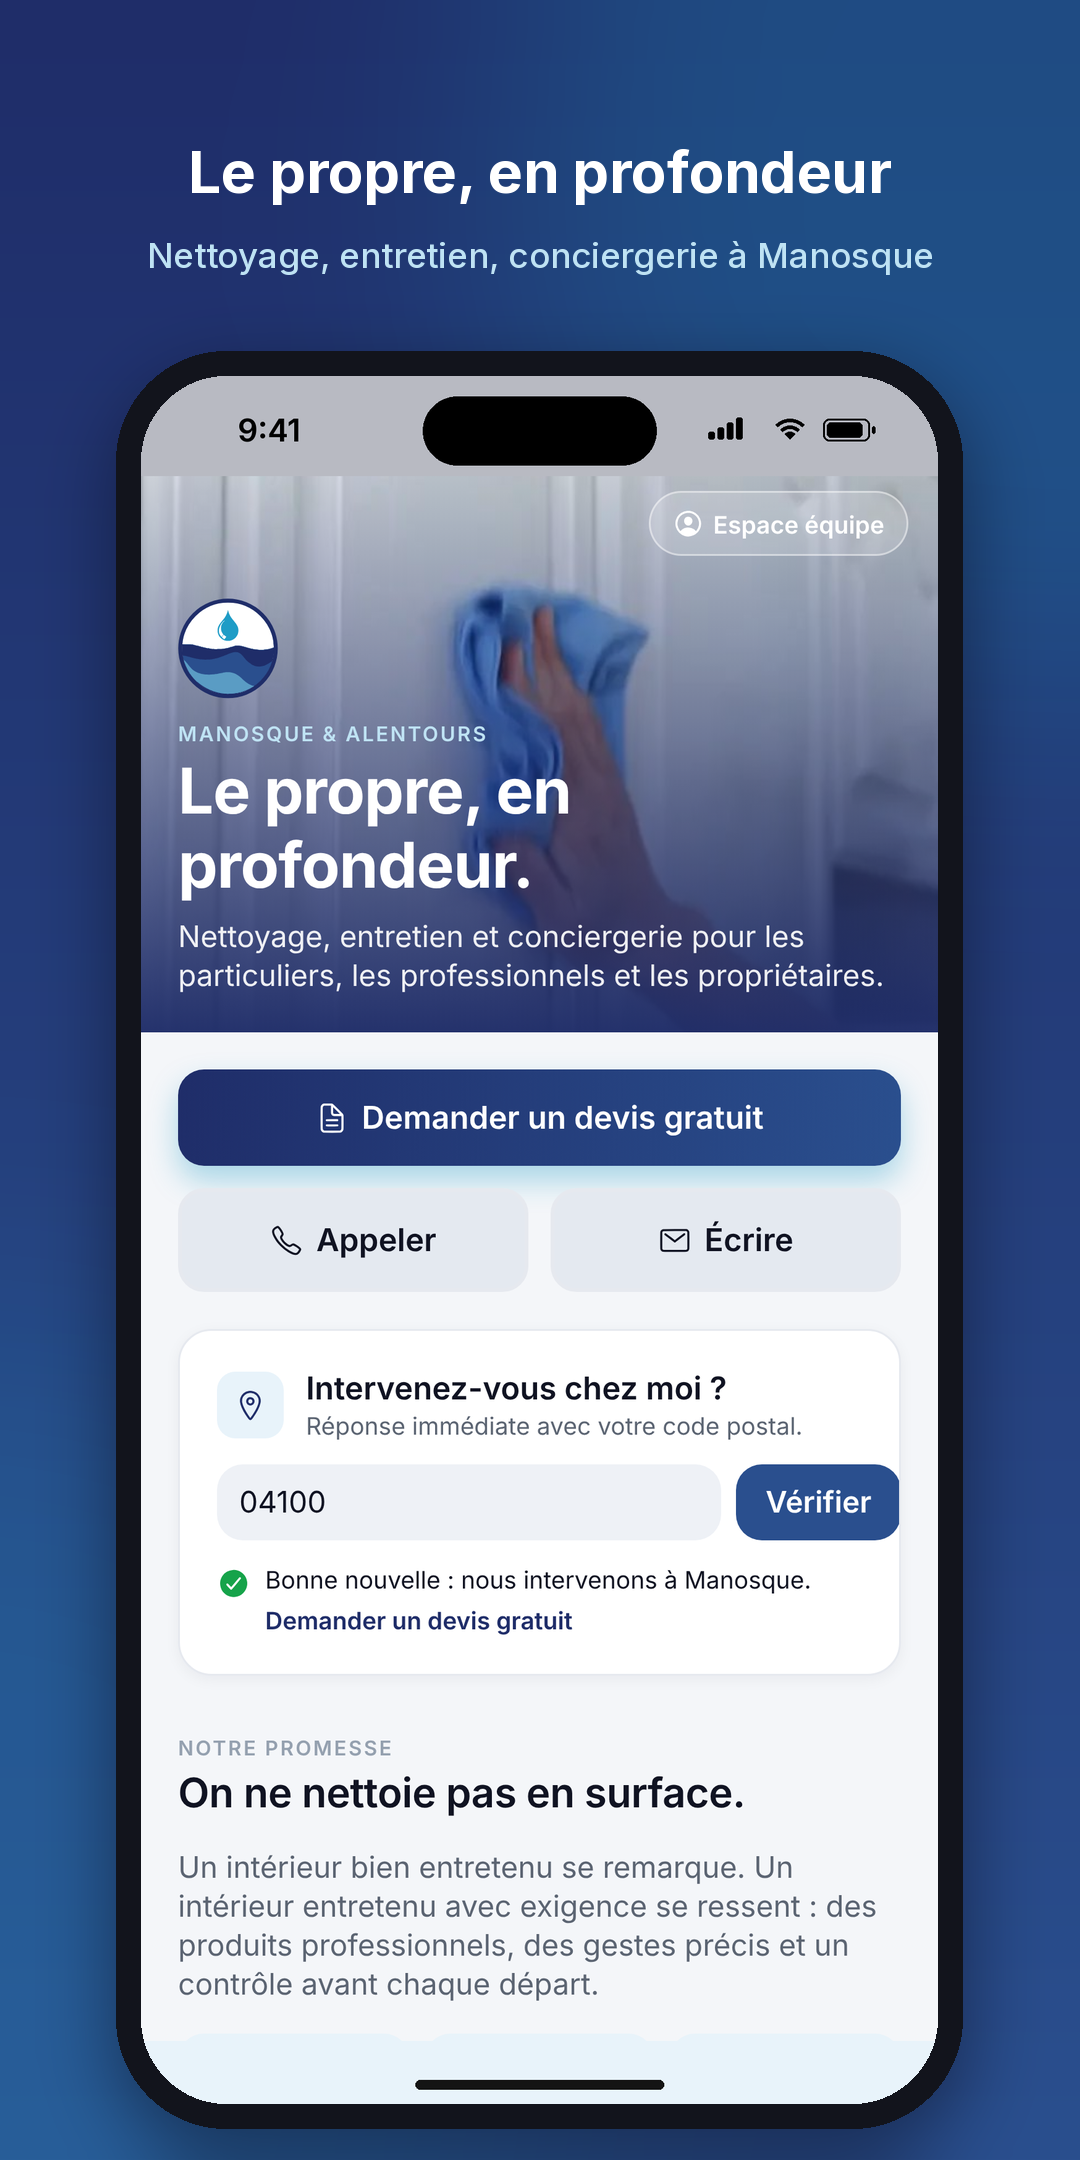
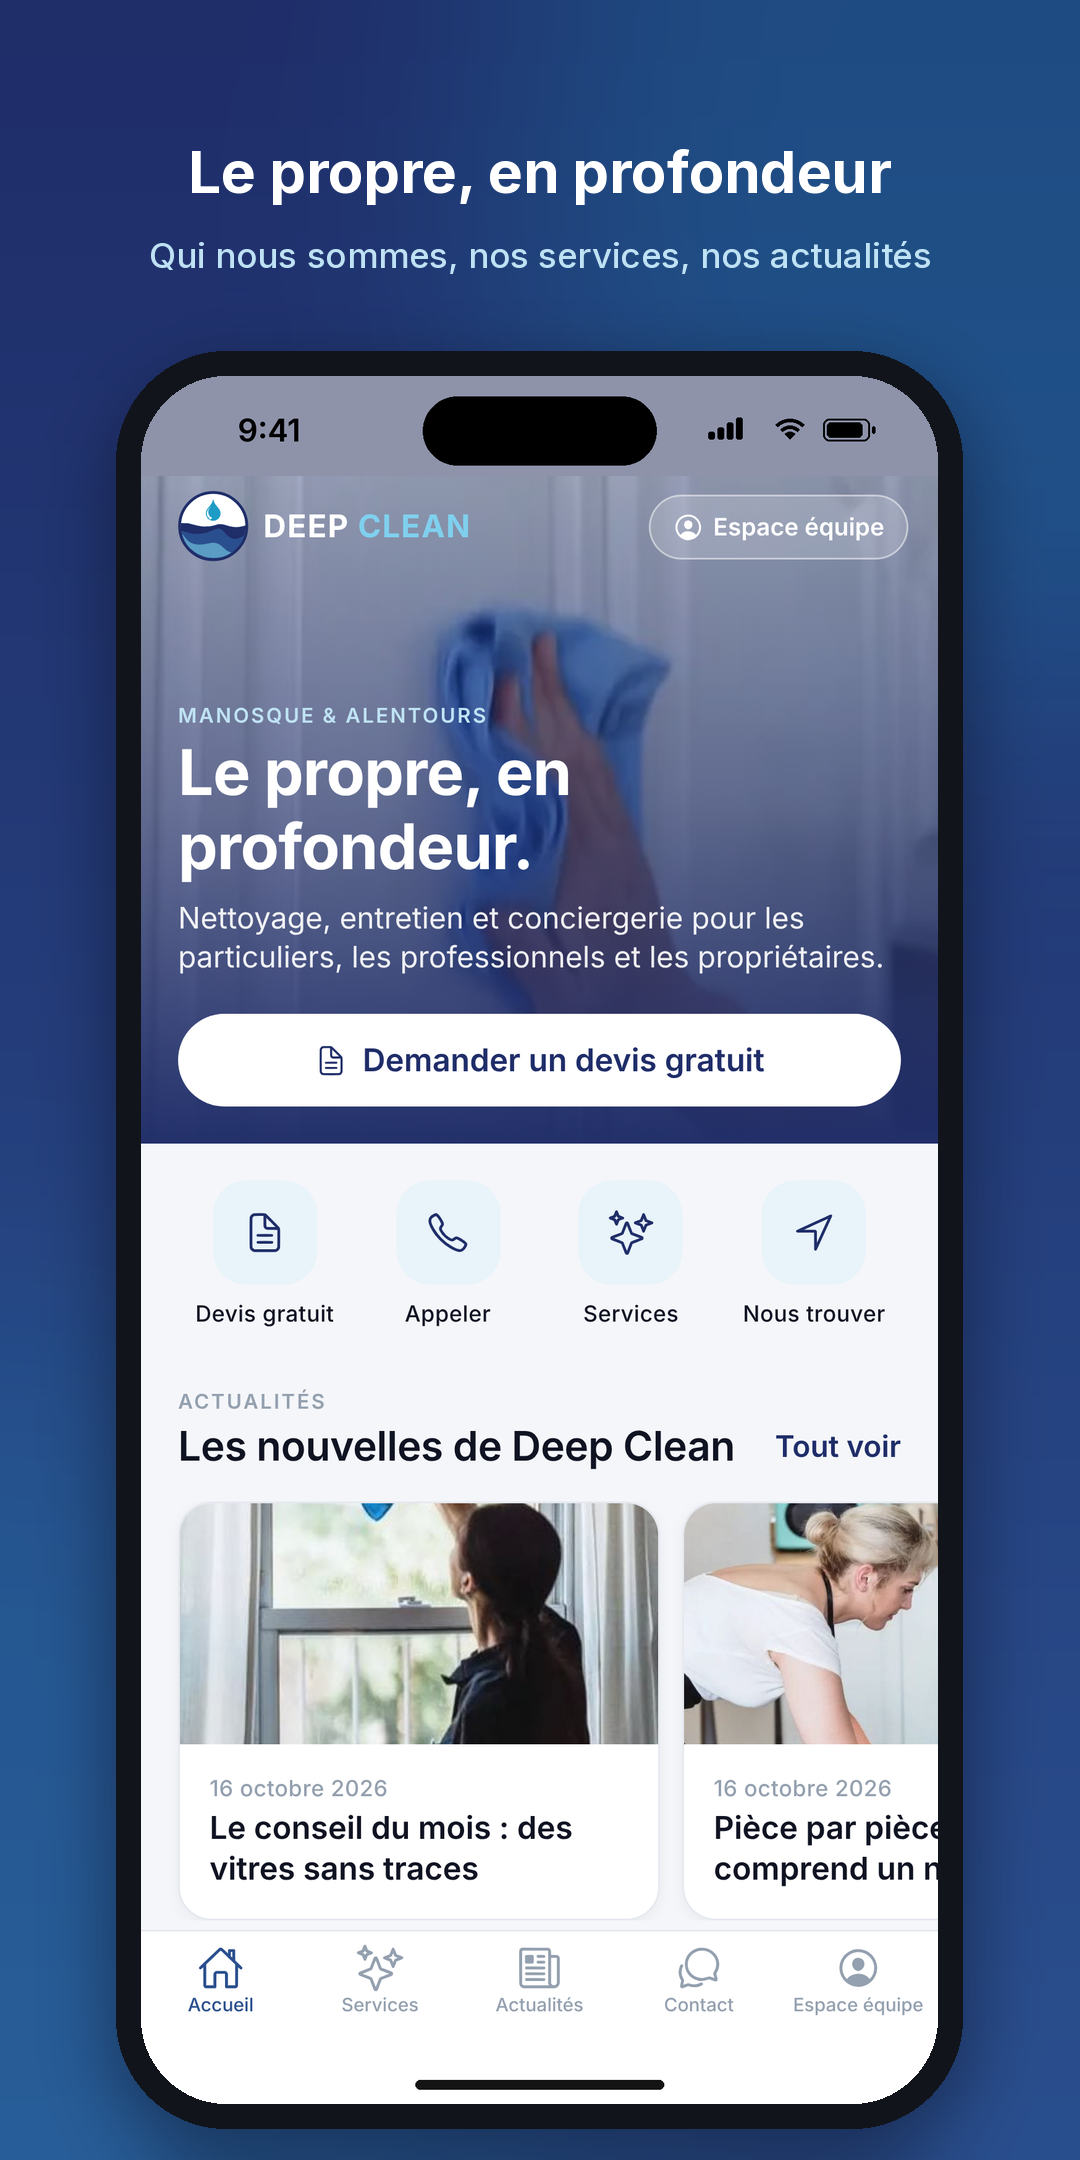
Accueil public : photos des actualités affichables par l'app web, dossier stores et captures à jour
- Photo d'une actualité publique servie avec Cross-Origin-Resource-Policy
  « cross-origin » : l'app web (autre origine que l'API) ne pouvait pas
  l'afficher (constaté pendant les captures).
- Dossier stores : offre retirée ; accueil public en onglets, actualités
  publiées par la RH ou la direction, note Apple et réponse 3.2 à jour,
  2 ou 3 vraies actualités à publier avant l'envoi.
- Capture 01 refaite sur le nouvel accueil ; outil de capture : connexion
  du personnel par « Espace équipe ».

Claude-Session: https://claude.ai/code/session_01TyVExU7WAmAkDbYikS42N7

diff --git a/application/backend/tests/publicNews.test.ts b/application/backend/tests/publicNews.test.ts
@@ -63,6 +63,8 @@ describe("Actualités de l'accueil public", () => {
     const photo = await request(app).get(`/api/v1/public/news/${id}/cover-photo`);
     expect(photo.status).toBe(200);
     expect(photo.headers["content-type"]).toBe("image/jpeg");
+    // Affichable par l'app web, hébergée sur une autre origine que l'API.
+    expect(photo.headers["cross-origin-resource-policy"]).toBe("cross-origin");
 
     await request(app).patch(`/api/v1/announcements/${id}/visibility`).set("Authorization", `Bearer ${director}`).send({ isPublic: false });
     expect((await request(app).get(`/api/v1/public/news/${id}/cover-photo`)).status).toBe(404);

diff --git a/application/backend/src/modules/announcements/announcements.controller.ts b/application/backend/src/modules/announcements/announcements.controller.ts
@@ -53,6 +53,10 @@ export const getPublicNewsHandler = asyncHandler(async (req: Request, res: Respo
 
 export const getPublicNewsCoverPhotoHandler = asyncHandler(async (req: Request, res: Response) => {
   const photo = await announcementsService.getPublicNewsCoverPhoto(req.params.id as string);
+  // Image publique affichée telle quelle par l'app web (app.deep-clean.fr,
+  // autre origine que l'API) : helmet impose sinon « same-origin », qui
+  // bloque son affichage dans le navigateur.
+  res.setHeader("Cross-Origin-Resource-Policy", "cross-origin");
   sendCoverPhoto(res, photo.storageKey, "public, max-age=3600");
 });
 

diff --git a/tools/store-screenshots/compose.py b/tools/store-screenshots/compose.py
@@ -24,7 +24,7 @@ SKY = (191, 227, 244)
 
 # Ordre de la fiche : le volet public d'abord (clients), puis les équipes.
 SHOTS = [
-    ("04-decouvrir", "decouvrir", "Le propre, en profondeur", "Nettoyage, entretien, conciergerie à Manosque"),
+    ("04-decouvrir", "decouvrir", "Le propre, en profondeur", "Qui nous sommes, nos services, nos actualités"),
     ("05-devis", "devis", "Un devis gratuit, sans compte", "Réponse sous 24 à 48 h"),
     ("01-accueil-employe", "accueil-employe", "Votre journée en un coup d'œil", "Mission en cours, pointage, heures"),
     ("02-planning", "planning", "Le planning de la semaine", "Chaque mission, son lieu, son équipe"),

diff --git a/docs/PUBLICATION-STORES.md b/docs/PUBLICATION-STORES.md
@@ -77,15 +77,15 @@ vérificateur tombe sur des erreurs (règle 2.1).
    tables `user_blocks` et `message_reports` (messagerie : blocage et
    signalement), colonne `users.deletionRequestedAt` (suppression de compte
    depuis l'app), `prospects.createdById` facultatif (demandes de devis de
-   l'espace public), table `welcome_offers` et colonne
-   `prospects.welcomeOfferId` (offre de bienvenue de l'espace public).
+   l'espace public), colonne `announcements.isPublic` (actualités affichées
+   sur l'accueil public).
 3. **Web** : Redeploy (pages légales mises à jour, espace public).
 4. Vérifier dans un navigateur :
    - `https://app.deep-clean.fr/confidentialite.html` (mentionne les demandes
      de devis) ;
    - sur `https://app.deep-clean.fr`, l'accueil public s'affiche en premier
-     (devis, « Intervenez-vous chez moi ? ») et « Espace équipe », en haut
-     à droite, mène à la connexion.
+     (onglets Accueil, Services, Actualités, Contact) et « Espace équipe »
+     mène à la connexion.
 5. **Site officiel `https://deep-clean.fr`** : c'est la version « La
    Plongée » (dossier `v2/` de ce dépôt, celle dont l'espace « Découvrir » de
    l'app reprend les textes et les photos). Il n'est **pas encore en ligne** :
@@ -147,12 +147,15 @@ listé, pas d'Apple Business Manager.
 nettoyage et de conciergerie de Manosque. Elle a deux publics :
 
 1. **Le grand public** (particuliers et entreprises de la région), **sans
-   compte** : l'app **s'ouvre sur l'accueil public**. Il présente l'entreprise
-   et ses prestations, répond tout de suite à « Intervenez-vous chez moi ? »
-   (code postal), affiche l'offre de bienvenue quand la Direction en propose
-   une, et permet d'envoyer une demande de devis, d'appeler ou d'écrire. Les
-   demandes arrivent dans l'espace commercial de l'entreprise. Les salariés
-   passent par « Espace équipe » (en haut à droite).
+   compte** : l'app **s'ouvre sur l'accueil public**, en quatre onglets.
+   *Accueil* : qui est DEEP CLEAN, raccourcis (devis, appel, services,
+   itinéraire), dernières actualités, univers, « Intervenez-vous chez moi ? ».
+   *Services* : prestations, soins spécifiques, détail pièce par pièce,
+   méthode, engagements, devis déjà présélectionné. *Actualités* : publiées
+   par la RH ou la direction depuis leur espace. *Contact* : devis,
+   téléphone, e-mail, itinéraire, zone d'intervention, questions fréquentes.
+   Les demandes de devis arrivent dans l'espace commercial de l'entreprise.
+   Les salariés passent par l'onglet « Espace équipe ».
 2. **Les équipes de DEEP CLEAN** (salariés, chefs d'équipe, superviseurs, RH,
    direction), avec les identifiants remis par la RH : planning, missions,
    pointage, signalements, messagerie, RH, devis et factures.
@@ -167,7 +170,7 @@ l'autorise par écrit (§2 et annexe).
 |---|---|---|
 | **5.2.1** Propriété intellectuelle | « Apps should be submitted by the person or legal entity that owns **or has licensed** the intellectual property. » | Boris Corsiez publie **sous licence** de DEEP CLEAN : autorisation écrite signée, jointe dans App Store Connect. |
 | **4.2.6** Applis générées par un service | Les prestataires ne doivent pas soumettre, au nom de leurs clients, des applis issues d'un modèle commercialisé. | L'app n'est **pas** un modèle en marque blanche : elle est développée sur mesure pour DEEP CLEAN, avec son contenu. **Ne jamais écrire** dans la fiche ni la note « louée à des entreprises clientes », « premier client », « plateforme pour toutes les entreprises de nettoyage ». |
-| **3.2** Audience | Apple oriente les applis réservées aux salariés d'une seule entreprise vers la distribution privée. | L'app **s'ouvre sur un accueil public utilisable sans compte** (devis, zone d'intervention, contact, offre de bienvenue) ; la connexion du personnel n'est qu'un bouton « Espace équipe ». C'est l'app d'une entreprise locale pour ses clients **et** ses équipes. |
+| **3.2** Audience | Apple oriente les applis réservées aux salariés d'une seule entreprise vers la distribution privée. | L'app **s'ouvre sur un accueil public utilisable sans compte** (présentation, services, actualités, devis, zone d'intervention, contact) ; la connexion du personnel n'est qu'un onglet « Espace équipe ». C'est l'app d'une entreprise locale pour ses clients **et** ses équipes. |
 
 **Risque résiduel, dit franchement :** la décision reste celle du
 vérificateur. Si Apple propose malgré tout la distribution privée (règle 3.2),
@@ -280,8 +283,7 @@ Règles suivies pour les captures (règle 2.3.3) :
 - la première capture n'est **pas** l'écran de connexion : c'est l'accueil
   public, premier écran de l'app ;
 - **aucun prix ni aucune remise** dans les captures, le nom ou le sous-titre
-  (règle 2.3.7) : refaire les captures avec l'offre de bienvenue
-  **désactivée** ;
+  (règle 2.3.7) ;
 - chaque écran montré est accessible avec les comptes de démo du §6 ;
 - fond et titres aux couleurs de la charte (marine `#1F2D69`, bleu
   `#2A4F8E`, bleu goutte `#1E9CC6`).
@@ -318,8 +320,8 @@ remplaçant les identifiants) :
 Deep Clean is the official app of DEEP CLEAN, a cleaning and concierge company in Manosque, France. The app is in French.
 
 It has two audiences:
-1) The general public, WITHOUT any account: the app opens on a public home screen. Anyone can browse the company's services and FAQ, check whether their town is in the service area ("Intervenez-vous chez moi ?", e.g. postal code 04100), call or email the company, and send a quote request (it goes to the company's sales team; feel free to send a test request). When the company runs a welcome offer (a discount on the first cleaning service requested through the app), it is shown with its full terms; the discount applies only to the cleaning service, quoted and paid outside the app, and unlocks nothing in the app.
-Staff sign in through "Espace équipe" (top right of the home screen).
+1) The general public, WITHOUT any account: the app opens on a public area with four tabs. "Accueil" presents the company (who we are, shortcuts, latest news, services, service-area check: "Intervenez-vous chez moi ?", e.g. postal code 04100). "Services" details each service room by room and opens a quote request for it. "Actualités" shows the company's news, published by its HR or management from the staff area. "Contact" lets anyone call, email, get directions, check the service area, read the FAQ and send a quote request (it goes to the company's sales team; feel free to send a test request).
+Staff sign in through the "Espace équipe" tab.
 2) DEEP CLEAN's staff (employees, team leaders, supervisors, HR, management), with credentials provided by the company's HR department. There is no public sign-up by design: staff accounts are created by HR. Employees use the app on their personal iPhones.
 
 The app was custom-built for DEEP CLEAN and is published by Boris Corsiez (KingDream Digital) under a license from DEEP CLEAN SAS (SIREN 942 773 375), which owns the "Deep Clean" name and logo. The written authorization signed by the company's president is attached.
@@ -327,7 +329,7 @@ The app was custom-built for DEEP CLEAN and is published by Boris Corsiez (KingD
 Demo accounts (staff area):
 - Employee: <identifiant> / <mot de passe> — today's missions, schedule, clock-in/out, problem reporting, notifications, messaging.
 - Supervisor: <identifiant> / <mot de passe> — schedule management, validation of missions and timesheets.
-- Management: <identifiant> / <mot de passe> — company overview, statistics, quotes and invoices, welcome offer settings (Menu > "Offre de bienvenue").
+- Management: <identifiant> / <mot de passe> — company overview, statistics, quotes and invoices, news (Menu > "Actualités": a switch shows a news item on the public area).
 
 Privacy and safety:
 - Camera and location are requested only when the user clocks in or out, as proof of presence on the job site (and when a manager records a job site's location). Location is never used in the background.
@@ -337,28 +339,16 @@ Privacy and safety:
 - Privacy policy: https://app.deep-clean.fr/confidentialite.html
 ```
 
-## 6 bis. Offre de bienvenue (facultative)
+## 6 bis. Actualités de l'accueil public
 
-Réglée dans l'app par la Direction (Menu → Offre de bienvenue) : taux, dates,
-phrase d'accroche, conditions complètes (« Rédiger les conditions types »
-propose un texte à relire), bouton d'affichage. Elle n'apparaît au public que
-si elle est activée **et** dans ses dates, et disparaît seule à la date de
-fin, sans nouvelle version de l'app. Chaque demande de devis envoyée pendant
-l'offre porte sa mention (fiche prospect et notification) : le commercial
-applique la remise **sur le devis**, au tarif habituel, si le client n'a
-jamais fait appel à DEEP CLEAN.
-
-Règles à respecter :
-- **accord écrit de DEEP CLEAN** avant de l'activer (taux, dates, public,
-  plafond éventuel) ; l'offre doit être réellement appliquée (règle Apple
-  2.3.1 et droit de la consommation) ;
-- jamais de « -10 % » dans le nom, le sous-titre ni les captures de la fiche
-  (règle 2.3.7) : l'annoncer au besoin dans le **texte promotionnel** (170
-  caractères, modifiable à tout moment sans nouvelle vérification) ;
-- jamais conditionnée à l'activation des notifications, à une note ou un
-  avis, ni à une newsletter (règles 5.1.2 et 3.2.2) ;
-- aucune mention de crédit d'impôt ou de « services à la personne » tant que
-  DEEP CLEAN n'a pas fourni son numéro de déclaration.
+La RH, la direction (et l'admin technique) alimentent l'accueil public depuis
+leur espace : Menu → Actualités → nouvelle actualité → « Afficher aussi sur
+l'accueil public », ou plus tard depuis l'actualité elle-même (interrupteur
+« Sur l'accueil public », qui permet aussi de la retirer). Le superviseur
+publie en interne seulement. Une actualité publique est visible par tout le
+monde sans compte, signée « DEEP CLEAN » (ni nom, ni rôle, ni photo de son
+auteur) : n'y mettre ni information interne, ni photo d'une personne sans son
+accord. Avant l'envoi à Apple, en publier 2 ou 3 vraies.
 
 ## 7. Questionnaires de confidentialité
 
@@ -517,7 +507,7 @@ Répondre en anglais, poliment, sans jamais contredire la fiche ni la note.
 
 **Règle 3.2 — « app intended for a limited audience / internal use »**
 ```
-Thank you for your review. Deep Clean is not limited to a company's employees: it is the official app of DEEP CLEAN, a cleaning and concierge company in Manosque, France, and it serves the general public without any account. The app opens on a public home screen where anyone can browse the company's services and FAQ, check instantly whether their town is in the service area, contact the company, see the current welcome offer and request a quote; requests reach the company's sales team directly. Staff sign in separately through "Espace équipe".
+Thank you for your review. Deep Clean is not limited to a company's employees: it is the official app of DEEP CLEAN, a cleaning and concierge company in Manosque, France, and it serves the general public without any account. The app opens on a public area with four tabs (home, services, news, contact) where anyone can learn who the company is, browse its services room by room, read its news, check instantly whether their town is in the service area, contact the company and request a quote; requests reach the company's sales team directly. Staff sign in separately through the "Espace équipe" tab.
 The staff area is used by the company's employees on their own personal iPhones (not company-managed devices), alongside seasonal and part-time staff who need to find the app by name on the App Store.
 We would be grateful if you could reconsider the app for public distribution on the App Store.
 ```
@@ -551,7 +541,7 @@ Account deletion is available in the app: Menu > Profil > "Supprimer mon compte"
 - [ ] Comptes de démo Employé, Superviseur et Direction créés, mots de passe changés, missions planifiées pendant 10 jours (§6)
 - [ ] L'app s'ouvre sur l'accueil public ; « Espace équipe » mène à la connexion
 - [ ] Une demande de devis de test envoyée depuis l'app arrive bien dans Commercial → Prospects
-- [ ] Offre de bienvenue : soit désactivée, soit validée **par écrit** par DEEP CLEAN (taux, dates, conditions) et réellement appliquée sur les devis (§6 bis)
+- [ ] 2 ou 3 **vraies** actualités publiées sur l'accueil public par la RH ou la direction (Menu → Actualités → « Afficher aussi sur l'accueil public »), pour que l'onglet Actualités ne soit pas vide pendant la vérification
 - [ ] Autorisation signée de DEEP CLEAN jointe (annexe)
 - [ ] Fiche, mots-clés, catégories, URL et classification renseignés (§4) — aucune mention « interne » ou « louée à des entreprises »
 - [ ] Captures iPhone 6,9" importées dans l'ordre (§5)
